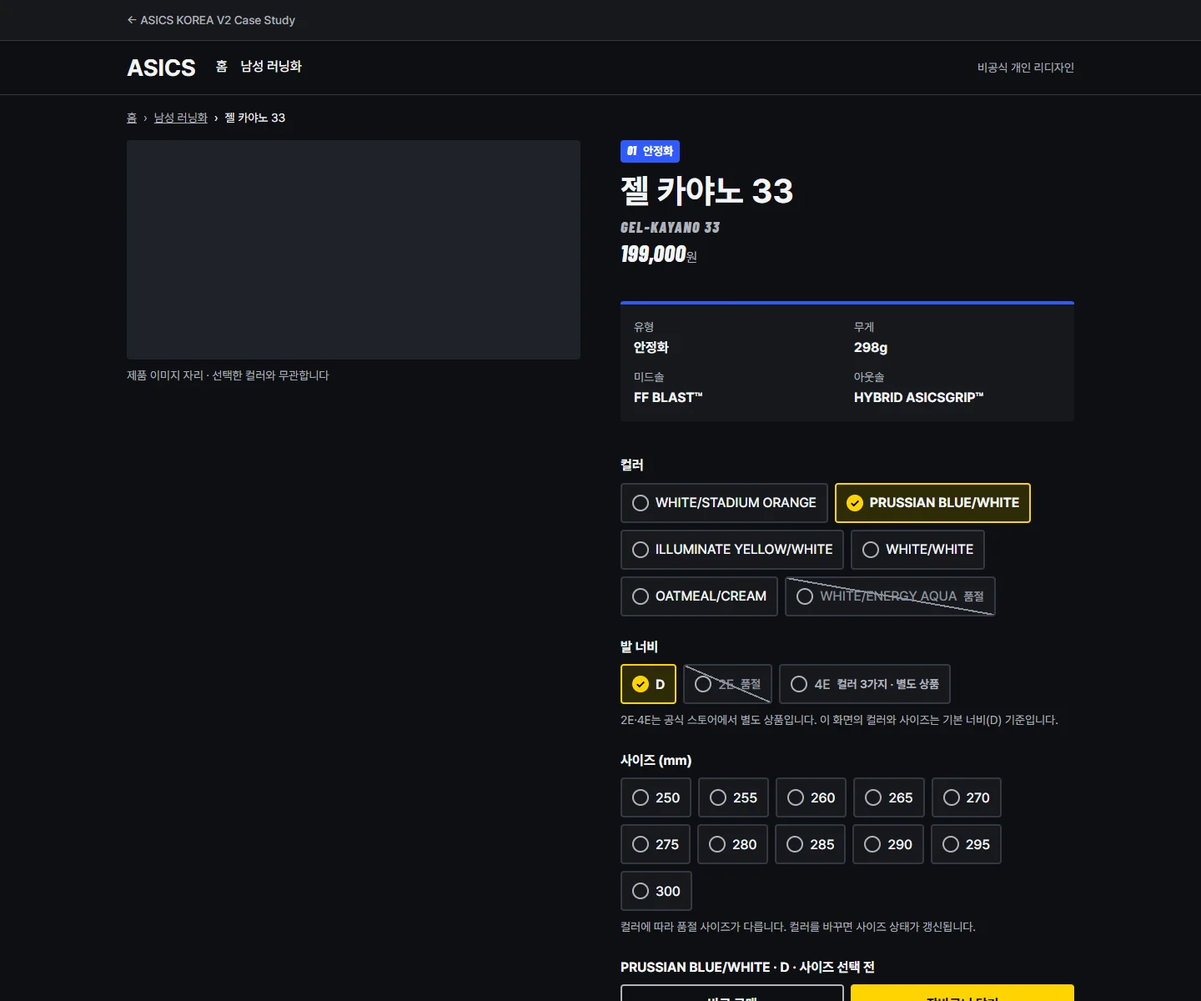
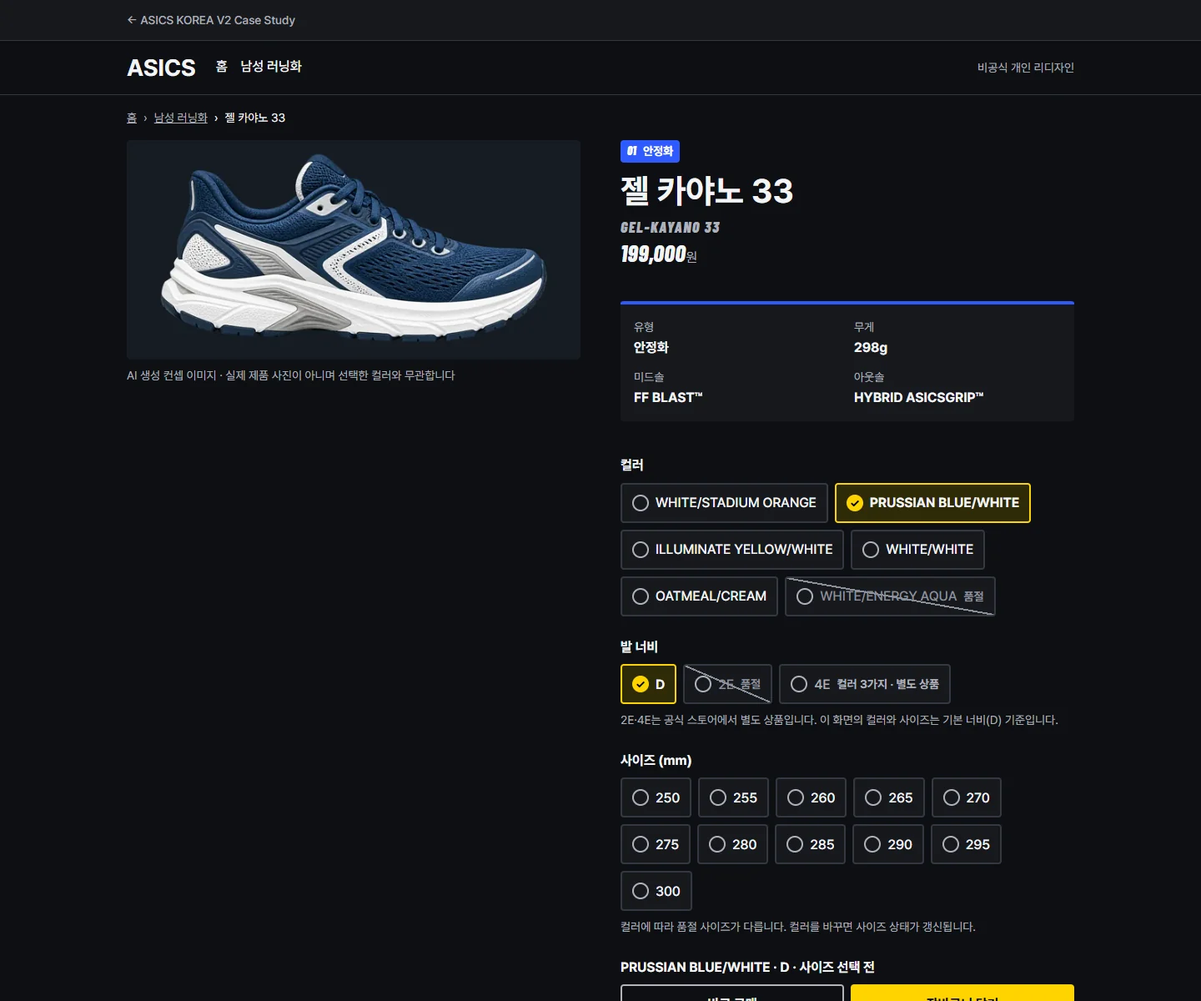
feat: show AI concept product images in ASICS V2 demo
- 22 product image slots use the user-made AI concept shoes (400/600/800/1200w)
- case study wording and V2 comparison captures updated to the final demo
- rights record for the product images (user-approved public portfolio use)

Changed region(s): [[0.125, 0.1542, 0.4688, 0.3392], [0.0938, 0.37, 0.375, 0.4008]]

diff --git a/docs/asics-korea-v2.html b/docs/asics-korea-v2.html
@@ -43,7 +43,7 @@
           </div>
           <h1 class="ak-heading" id="overview-title">ASICS KOREA 남성 러닝화 구매 경험 리디자인 — V2</h1>
           <p class="akv-statement">아식스 코리아 공식 스토어의 남성 러닝화 구매 흐름을 V1 Figma 6화면에서 V2 코드 시안 4 Page로 다시 정리한 비공식 개인 리디자인입니다.</p>
-          <p class="akv-notice">비공식 개인 리디자인이며 아식스와 무관합니다. V2 시연의 제품 이미지 칸은 자리 표시입니다. V1 화면의 제품 비주얼은 AI 생성 컨셉 이미지이며 실제 아식스 제품 사진이 아닙니다.</p>
+          <p class="akv-notice">비공식 개인 리디자인이며 아식스와 무관합니다. V1·V2 화면의 제품 이미지는 사용자가 만든 AI 생성 컨셉 이미지이며 실제 아식스 제품 사진이 아닙니다.</p>
           <p class="akv-links">
             <a class="akv-cta akv-cta--primary" href="asics-korea-v2-demo/index.html">V2 시연 사이트 열기 <span aria-hidden="true">→</span></a>
             <a class="akv-cta" href="asics-korea.html">V1 Case Study 보기 <span aria-hidden="true">→</span></a>
@@ -221,7 +221,7 @@
           <h2 class="akv-statement" id="solution-title">각 화면을 의도, 결정, 결과 순서로 V1과 비교합니다.</h2>
           <p class="ak-lead">아래 결정은 AI가 설계·구현했고, 사용자는 원칙 결정과 승인으로 관여했습니다. 각 비교는 왼쪽 V1(Figma 화면), 오른쪽 V2(시연 사이트 화면)이며, V2 화면은 시연 사이트에서 직접 열어 볼 수 있습니다.</p>
         </div>
-        <p class="akv-notice">비공식 개인 리디자인이며 아식스와 무관합니다. V2 시연의 제품 이미지 칸은 자리 표시입니다. V1 화면의 제품 비주얼은 AI 생성 컨셉 이미지이며 실제 아식스 제품 사진이 아닙니다.</p>
+        <p class="akv-notice">비공식 개인 리디자인이며 아식스와 무관합니다. V1·V2 화면의 제품 이미지는 사용자가 만든 AI 생성 컨셉 이미지이며 실제 아식스 제품 사진이 아닙니다.</p>
         <ol class="akv-solutions">
           <li class="akv-solution">
             <div class="akv-solution__head"><p class="akv-solution__num" aria-hidden="true">01</p><h3 class="akv-solution__title">홈</h3></div>
@@ -237,7 +237,7 @@
               </figure>
               <figure class="ak-figure akv-shot akv-shot--v2">
                 <figcaption class="akv-shot__label"><b class="akv-shot__ver">V2</b><span>얇은 유형 띠와 주 행동 하나</span></figcaption>
-                <a class="ak-zoom" id="fig-v2-home" href="#zoom-v2-home" title="크게 보기"><img src="assets/asics-v2-case-home.webp" alt="V2 시연 사이트 홈 화면. 얇은 유형 띠와 주 행동 하나. 제품 이미지 칸은 자리 표시" width="1440" height="900" loading="lazy"></a>
+                <a class="ak-zoom" id="fig-v2-home" href="#zoom-v2-home" title="크게 보기"><img src="assets/asics-v2-case-home.webp" alt="V2 시연 사이트 홈 화면. 얇은 유형 띠와 주 행동 하나. 제품 이미지는 AI 생성 컨셉 이미지" width="1440" height="900" loading="lazy"></a>
               </figure>
             </div>
             <a class="akv-demo-link" href="asics-korea-v2-demo/index.html">시연에서 열기 <span aria-hidden="true">→</span></a>
@@ -257,7 +257,7 @@
               </figure>
               <figure class="ak-figure akv-shot akv-shot--v2">
                 <figcaption class="akv-shot__label"><b class="akv-shot__ver">V2</b><span>노랑 = 선택 상태</span></figcaption>
-                <a class="ak-zoom" id="fig-v2-list" href="#zoom-v2-list" title="크게 보기"><img src="assets/asics-v2-case-list.webp" alt="V2 시연 사이트 남성 러닝화 목록 화면. 노랑은 선택 상태에만 쓰고 '71개 · 2026-10-01 공식 스토어 목록 기준'을 표기. 제품 이미지 칸은 자리 표시" width="1440" height="1100" loading="lazy"></a>
+                <a class="ak-zoom" id="fig-v2-list" href="#zoom-v2-list" title="크게 보기"><img src="assets/asics-v2-case-list.webp" alt="V2 시연 사이트 남성 러닝화 목록 화면. 노랑은 선택 상태에만 쓰고 '71개 · 2026-10-01 공식 스토어 목록 기준'을 표기. 제품 이미지는 AI 생성 컨셉 이미지" width="1440" height="1100" loading="lazy"></a>
               </figure>
             </div>
             <a class="akv-demo-link" href="asics-korea-v2-demo/list.html">시연에서 열기 <span aria-hidden="true">→</span></a>
@@ -277,7 +277,7 @@
               </figure>
               <figure class="ak-figure akv-shot akv-shot--v2">
                 <figcaption class="akv-shot__label"><b class="akv-shot__ver">V2</b><span>얇은 띠와 품절 옵션 1종</span></figcaption>
-                <a class="ak-zoom" id="fig-v2-detail" href="#zoom-v2-detail" title="크게 보기"><img src="assets/asics-v2-case-detail.webp" alt="V2 시연 사이트 젤 카야노 33 상세 화면. 얇은 사양 띠 아래 옵션, 품절은 선택 자리에서 품절 옵션 1종으로 표시. 제품 이미지 칸은 자리 표시" width="1440" height="1200" loading="lazy"></a>
+                <a class="ak-zoom" id="fig-v2-detail" href="#zoom-v2-detail" title="크게 보기"><img src="assets/asics-v2-case-detail.webp" alt="V2 시연 사이트 젤 카야노 33 상세 화면. 얇은 사양 띠 아래 옵션, 품절은 선택 자리에서 품절 옵션 1종으로 표시. 제품 이미지는 AI 생성 컨셉 이미지" width="1440" height="1200" loading="lazy"></a>
               </figure>
             </div>
             <a class="akv-demo-link" href="asics-korea-v2-demo/product.html">시연에서 열기 <span aria-hidden="true">→</span></a>
@@ -297,7 +297,7 @@
               </figure>
               <figure class="ak-figure akv-shot akv-shot--v2">
                 <figcaption class="akv-shot__label"><b class="akv-shot__ver">V2</b><span>"공식 자료 간 표기 상이" 각주</span></figcaption>
-                <a class="ak-zoom" id="fig-v2-compare" href="#zoom-v2-compare" title="크게 보기"><img src="assets/asics-v2-case-compare.webp" alt="V2 시연 사이트 비교 화면. 젤 카야노 33 · 님버스 28 · GT 2000 15를 같은 항목으로 비교하고, 가장 가벼운 값에 '추천 아님' 병기, 확인 못 한 칸은 '미확인', 출처가 다른 값은 '공식 자료 간 표기 상이' 각주. 제품 이미지 칸은 자리 표시" width="1440" height="1509" loading="lazy"></a>
+                <a class="ak-zoom" id="fig-v2-compare" href="#zoom-v2-compare" title="크게 보기"><img src="assets/asics-v2-case-compare.webp" alt="V2 시연 사이트 비교 화면. 젤 카야노 33 · 님버스 28 · GT 2000 15를 같은 항목으로 비교하고, 가장 가벼운 값에 '추천 아님' 병기, 확인 못 한 칸은 '미확인', 출처가 다른 값은 '공식 자료 간 표기 상이' 각주. 제품 이미지는 AI 생성 컨셉 이미지" width="1440" height="1501" loading="lazy"></a>
               </figure>
             </div>
             <a class="akv-demo-link" href="asics-korea-v2-demo/compare.html">시연에서 열기 <span aria-hidden="true">→</span></a>
@@ -317,7 +317,7 @@
               </figure>
               <figure class="ak-figure akv-shot akv-shot--v2 akv-shot--phone">
                 <figcaption class="akv-shot__label"><b class="akv-shot__ver">V2</b><span>컬러 무관 고지, 고정 구매 바(첫 화면)</span></figcaption>
-                <a class="ak-zoom" id="fig-v2-mobile" href="#zoom-v2-mobile" title="크게 보기"><img src="assets/asics-v2-case-mobile-detail.webp" alt="V2 시연 사이트 모바일 상세 첫 화면(390px 폭). 이미지가 선택한 컬러와 무관하다는 고지와 고정 구매 바. 제품 이미지 칸은 자리 표시" width="390" height="844" loading="lazy"></a>
+                <a class="ak-zoom" id="fig-v2-mobile" href="#zoom-v2-mobile" title="크게 보기"><img src="assets/asics-v2-case-mobile-detail.webp" alt="V2 시연 사이트 모바일 상세 첫 화면(390px 폭). 이미지가 선택한 컬러와 무관하다는 고지와 고정 구매 바. 제품 이미지는 AI 생성 컨셉 이미지" width="390" height="844" loading="lazy"></a>
               </figure>
             </div>
             <a class="akv-demo-link" href="asics-korea-v2-demo/product.html">시연에서 열기 <span aria-hidden="true">→</span><span class="akv-demo-link__note">(390px 폭)</span></a>
@@ -338,7 +338,7 @@
             <ul class="ak-points">
               <li><p class="ak-text">코드 시안 4 Page × 4 폭(1920·1440·768·390) 측정 문제 0</p></li>
               <li><p class="ak-text">첫 QA에서 비교 390 가로 넘침 524px 발견 → 수정 → 재검증 통과</p></li>
-              <li><p class="ak-text">로컬에서 제품 이미지를 넣은 상태도 측정 0, 이미지-모델 매칭 일치(공개 시연은 이미지 칸을 자리 표시로 둠)</p></li>
+              <li><p class="ak-text">제품 이미지(AI 생성 컨셉 이미지 10종)를 넣은 시연도 측정 0, 이미지-모델 매칭 일치</p></li>
               <li><p class="ak-text">Figma V2: 화면 8개를 변수·텍스트 스타일·컴포넌트로 구성(편집 가능 레이어), 웹 캡처와 대조 QA</p></li>
             </ul>
           </div>
@@ -418,7 +418,7 @@
   </div>
   <div class="ak-lightbox" id="zoom-v2-compare" role="dialog" aria-label="원본 크기 이미지">
     <p class="ak-lightbox__bar"><span>원본 크기 · 옆과 아래로 밀어서 보기</span><a class="ak-lightbox__close" href="#fig-v2-compare">닫기 ✕</a></p>
-    <div class="ak-lightbox__body"><img src="assets/asics-v2-case-compare.webp" alt="" width="1440" height="1509" loading="lazy"></div>
+    <div class="ak-lightbox__body"><img src="assets/asics-v2-case-compare.webp" alt="" width="1440" height="1501" loading="lazy"></div>
   </div>
   <div class="ak-lightbox" id="zoom-v1-mobile" role="dialog" aria-label="원본 크기 이미지">
     <p class="ak-lightbox__bar"><span>원본 크기 · 옆과 아래로 밀어서 보기</span><a class="ak-lightbox__close" href="#fig-v1-mobile">닫기 ✕</a></p>

diff --git a/docs/asics-korea-v2-demo/index.html b/docs/asics-korea-v2-demo/index.html
@@ -60,12 +60,12 @@
         <div class="type__body">
           <ul class="type__cards">
             <li class="card">
-              <div class="media" aria-hidden="true"></div>
+              <div class="media"><img class="media__img" src="assets/products/gel-kayano-33-600.webp" srcset="assets/products/gel-kayano-33-400.webp 400w, assets/products/gel-kayano-33-600.webp 600w, assets/products/gel-kayano-33-800.webp 800w, assets/products/gel-kayano-33-1200.webp 1200w" sizes="(min-width: 1024px) 400px, (min-width: 600px) 50vw, 100vw" width="600" height="262" alt="" decoding="async"></div>
               <h3 class="card__name"><a class="card__link" href="product.html">젤 카야노 33</a></h3>
               <p class="card__price"><span class="card__price-num">199,000</span>원</p>
             </li>
             <li class="card">
-              <div class="media" aria-hidden="true"></div>
+              <div class="media"><img class="media__img" src="assets/products/gt-2000-15-600.webp" srcset="assets/products/gt-2000-15-400.webp 400w, assets/products/gt-2000-15-600.webp 600w, assets/products/gt-2000-15-800.webp 800w, assets/products/gt-2000-15-1200.webp 1200w" sizes="(min-width: 1024px) 400px, (min-width: 600px) 50vw, 100vw" width="600" height="288" alt="" loading="lazy" decoding="async"></div>
               <h3 class="card__name">GT 2000 15</h3>
               <p class="card__price"><span class="card__price-num">159,000</span>원</p>
             </li>
@@ -86,12 +86,12 @@
         <div class="type__body">
           <ul class="type__cards">
             <li class="card">
-              <div class="media" aria-hidden="true"></div>
+              <div class="media"><img class="media__img" src="assets/products/gel-nimbus-28-600.webp" srcset="assets/products/gel-nimbus-28-400.webp 400w, assets/products/gel-nimbus-28-600.webp 600w, assets/products/gel-nimbus-28-800.webp 800w, assets/products/gel-nimbus-28-1200.webp 1200w" sizes="(min-width: 1024px) 400px, (min-width: 600px) 50vw, 100vw" width="600" height="273" alt="" loading="lazy" decoding="async"></div>
               <h3 class="card__name">젤 님버스 28</h3>
               <p class="card__price"><span class="card__price-num">199,000</span>원</p>
             </li>
             <li class="card">
-              <div class="media" aria-hidden="true"></div>
+              <div class="media"><img class="media__img" src="assets/products/glideride-max-2-600.webp" srcset="assets/products/glideride-max-2-400.webp 400w, assets/products/glideride-max-2-600.webp 600w, assets/products/glideride-max-2-800.webp 800w, assets/products/glideride-max-2-1200.webp 1200w" sizes="(min-width: 1024px) 400px, (min-width: 600px) 50vw, 100vw" width="600" height="266" alt="" loading="lazy" decoding="async"></div>
               <h3 class="card__name">글라이드라이드 맥스 2</h3>
               <p class="card__price"><span class="card__price-num">199,000</span>원</p>
             </li>
@@ -112,12 +112,12 @@
         <div class="type__body">
           <ul class="type__cards">
             <li class="card">
-              <div class="media" aria-hidden="true"></div>
+              <div class="media"><img class="media__img" src="assets/products/sonicblast-2-600.webp" srcset="assets/products/sonicblast-2-400.webp 400w, assets/products/sonicblast-2-600.webp 600w, assets/products/sonicblast-2-800.webp 800w, assets/products/sonicblast-2-1200.webp 1200w" sizes="(min-width: 1024px) 400px, (min-width: 600px) 50vw, 100vw" width="600" height="276" alt="" loading="lazy" decoding="async"></div>
               <h3 class="card__name">소닉블라스트 2</h3>
               <p class="card__price"><span class="card__price-num">229,000</span>원</p>
             </li>
             <li class="card">
-              <div class="media" aria-hidden="true"></div>
+              <div class="media"><img class="media__img" src="assets/products/novablast-6-600.webp" srcset="assets/products/novablast-6-400.webp 400w, assets/products/novablast-6-600.webp 600w, assets/products/novablast-6-800.webp 800w, assets/products/novablast-6-1200.webp 1200w" sizes="(min-width: 1024px) 400px, (min-width: 600px) 50vw, 100vw" width="600" height="274" alt="" loading="lazy" decoding="async"></div>
               <h3 class="card__name">노바블라스트 6</h3>
               <p class="card__price"><span class="card__price-num">179,000</span>원</p>
               <p class="card__status">전 컬러 품절</p>
@@ -139,12 +139,12 @@
         <div class="type__body">
           <ul class="type__cards">
             <li class="card">
-              <div class="media" aria-hidden="true"></div>
+              <div class="media"><img class="media__img" src="assets/products/metaspeed-sky-tokyo-600.webp" srcset="assets/products/metaspeed-sky-tokyo-400.webp 400w, assets/products/metaspeed-sky-tokyo-600.webp 600w, assets/products/metaspeed-sky-tokyo-800.webp 800w, assets/products/metaspeed-sky-tokyo-1200.webp 1200w" sizes="(min-width: 1024px) 400px, (min-width: 600px) 50vw, 100vw" width="600" height="276" alt="" loading="lazy" decoding="async"></div>
               <h3 class="card__name">메타스피드 스카이 도쿄</h3>
               <p class="card__price"><span class="card__price-num">329,000</span>원</p>
             </li>
             <li class="card">
-              <div class="media" aria-hidden="true"></div>
+              <div class="media"><img class="media__img" src="assets/products/magic-speed-5-600.webp" srcset="assets/products/magic-speed-5-400.webp 400w, assets/products/magic-speed-5-600.webp 600w, assets/products/magic-speed-5-800.webp 800w, assets/products/magic-speed-5-1200.webp 1200w" sizes="(min-width: 1024px) 400px, (min-width: 600px) 50vw, 100vw" width="600" height="274" alt="" loading="lazy" decoding="async"></div>
               <h3 class="card__name">매직 스피드 5</h3>
               <p class="card__price"><span class="card__price-num">209,000</span>원</p>
             </li>
@@ -165,12 +165,12 @@
         <div class="type__body">
           <ul class="type__cards">
             <li class="card">
-              <div class="media" aria-hidden="true"></div>
+              <div class="media"><img class="media__img" src="assets/products/blazeblast-600.webp" srcset="assets/products/blazeblast-400.webp 400w, assets/products/blazeblast-600.webp 600w, assets/products/blazeblast-800.webp 800w, assets/products/blazeblast-1200.webp 1200w" sizes="(min-width: 1024px) 400px, (min-width: 600px) 50vw, 100vw" width="600" height="260" alt="" loading="lazy" decoding="async"></div>
               <h3 class="card__name">블레이즈블라스트</h3>
               <p class="card__price"><span class="card__price-num">179,000</span>원</p>
             </li>
             <li class="card">
-              <div class="media" aria-hidden="true"></div>
+              <div class="media"><img class="media__img" src="assets/products/metafuji-trail-600.webp" srcset="assets/products/metafuji-trail-400.webp 400w, assets/products/metafuji-trail-600.webp 600w, assets/products/metafuji-trail-800.webp 800w, assets/products/metafuji-trail-1200.webp 1200w" sizes="(min-width: 1024px) 400px, (min-width: 600px) 50vw, 100vw" width="600" height="260" alt="" loading="lazy" decoding="async"></div>
               <h3 class="card__name">메타후지 트레일</h3>
               <p class="card__price"><span class="card__price-num">279,000</span>원</p>
             </li>
@@ -186,7 +186,7 @@
       <ul class="site-footer__list">
         <li>가격·상품 정보: 공식 스토어 비로그인 조사, 2026-10-01</li>
         <li>비공식 개인 리디자인이며 아식스와 무관합니다.</li>
-        <li>제품 이미지는 자리 표시입니다(실제 제품 사진을 쓰지 않습니다).</li>
+        <li>제품 이미지는 사용자가 제작한 AI 생성 컨셉 이미지이며 실제 아식스 제품 사진이 아닙니다.</li>
       </ul>
     </div>
   </footer>

diff --git a/docs/asics-korea-v2-demo/list.html b/docs/asics-korea-v2-demo/list.html
@@ -92,7 +92,7 @@
           <ul class="list-cards">
             <li class="card type--01" data-type="01">
               <span class="type-tag"><span class="num" aria-hidden="true">01</span>안정화</span>
-              <div class="media" aria-hidden="true"></div>
+              <div class="media"><img class="media__img" src="assets/products/gel-kayano-33-600.webp" srcset="assets/products/gel-kayano-33-400.webp 400w, assets/products/gel-kayano-33-600.webp 600w, assets/products/gel-kayano-33-800.webp 800w, assets/products/gel-kayano-33-1200.webp 1200w" sizes="(min-width: 1024px) 400px, (min-width: 600px) 50vw, 100vw" width="600" height="262" alt="" decoding="async"></div>
               <h3 class="card__name"><a class="card__link" href="product.html">젤 카야노 33</a></h3>
               <p class="card__price"><span class="card__price-num">199,000</span>원</p>
               <p class="card__meta">무게 298g · 컬러 6개</p>
@@ -107,7 +107,7 @@
 
             <li class="card type--01" data-type="01">
               <span class="type-tag"><span class="num" aria-hidden="true">01</span>안정화</span>
-              <div class="media" aria-hidden="true"></div>
+              <div class="media"><img class="media__img" src="assets/products/gt-2000-15-600.webp" srcset="assets/products/gt-2000-15-400.webp 400w, assets/products/gt-2000-15-600.webp 600w, assets/products/gt-2000-15-800.webp 800w, assets/products/gt-2000-15-1200.webp 1200w" sizes="(min-width: 1024px) 400px, (min-width: 600px) 50vw, 100vw" width="600" height="288" alt="" loading="lazy" decoding="async"></div>
               <h3 class="card__name">GT 2000 15</h3>
               <p class="card__price"><span class="card__price-num">159,000</span>원</p>
               <p class="card__meta">무게 252g · 컬러 3개</p>
@@ -122,7 +122,7 @@
 
             <li class="card type--02" data-type="02">
               <span class="type-tag"><span class="num" aria-hidden="true">02</span>쿠션화</span>
-              <div class="media" aria-hidden="true"></div>
+              <div class="media"><img class="media__img" src="assets/products/gel-nimbus-28-600.webp" srcset="assets/products/gel-nimbus-28-400.webp 400w, assets/products/gel-nimbus-28-600.webp 600w, assets/products/gel-nimbus-28-800.webp 800w, assets/products/gel-nimbus-28-1200.webp 1200w" sizes="(min-width: 1024px) 400px, (min-width: 600px) 50vw, 100vw" width="600" height="273" alt="" loading="lazy" decoding="async"></div>
               <h3 class="card__name">젤 님버스 28</h3>
               <p class="card__price"><span class="card__price-num">199,000</span>원</p>
               <p class="card__meta">무게 281g · 컬러 3개</p>
@@ -137,7 +137,7 @@
 
             <li class="card type--02" data-type="02">
               <span class="type-tag"><span class="num" aria-hidden="true">02</span>쿠션화</span>
-              <div class="media" aria-hidden="true"></div>
+              <div class="media"><img class="media__img" src="assets/products/glideride-max-2-600.webp" srcset="assets/products/glideride-max-2-400.webp 400w, assets/products/glideride-max-2-600.webp 600w, assets/products/glideride-max-2-800.webp 800w, assets/products/glideride-max-2-1200.webp 1200w" sizes="(min-width: 1024px) 400px, (min-width: 600px) 50vw, 100vw" width="600" height="266" alt="" loading="lazy" decoding="async"></div>
               <h3 class="card__name">글라이드라이드 맥스 2</h3>
               <p class="card__price"><span class="card__price-num">199,000</span>원</p>
               <div class="card__actions">
@@ -151,7 +151,7 @@
 
             <li class="card type--03" data-type="03">
               <span class="type-tag"><span class="num" aria-hidden="true">03</span>바운싱화</span>
-              <div class="media" aria-hidden="true"></div>
+              <div class="media"><img class="media__img" src="assets/products/sonicblast-2-600.webp" srcset="assets/products/sonicblast-2-400.webp 400w, assets/products/sonicblast-2-600.webp 600w, assets/products/sonicblast-2-800.webp 800w, assets/products/sonicblast-2-1200.webp 1200w" sizes="(min-width: 1024px) 400px, (min-width: 600px) 50vw, 100vw" width="600" height="276" alt="" loading="lazy" decoding="async"></div>
               <h3 class="card__name">소닉블라스트 2</h3>
               <p class="card__price"><span class="card__price-num">229,000</span>원</p>
               <div class="card__actions">
@@ -165,7 +165,7 @@
 
             <li class="card type--03" data-type="03">
               <span class="type-tag"><span class="num" aria-hidden="true">03</span>바운싱화</span>
-              <div class="media" aria-hidden="true"></div>
+              <div class="media"><img class="media__img" src="assets/products/novablast-6-600.webp" srcset="assets/products/novablast-6-400.webp 400w, assets/products/novablast-6-600.webp 600w, assets/products/novablast-6-800.webp 800w, assets/products/novablast-6-1200.webp 1200w" sizes="(min-width: 1024px) 400px, (min-width: 600px) 50vw, 100vw" width="600" height="274" alt="" loading="lazy" decoding="async"></div>
               <h3 class="card__name">노바블라스트 6</h3>
               <p class="card__price"><span class="card__price-num">179,000</span>원</p>
               <p class="card__meta">무게 253g · 컬러 10개</p>
@@ -181,7 +181,7 @@
 
             <li class="card type--04" data-type="04">
               <span class="type-tag"><span class="num" aria-hidden="true">04</span>레이싱화</span>
-              <div class="media" aria-hidden="true"></div>
+              <div class="media"><img class="media__img" src="assets/products/metaspeed-sky-tokyo-600.webp" srcset="assets/products/metaspeed-sky-tokyo-400.webp 400w, assets/products/metaspeed-sky-tokyo-600.webp 600w, assets/products/metaspeed-sky-tokyo-800.webp 800w, assets/products/metaspeed-sky-tokyo-1200.webp 1200w" sizes="(min-width: 1024px) 400px, (min-width: 600px) 50vw, 100vw" width="600" height="276" alt="" loading="lazy" decoding="async"></div>
               <h3 class="card__name">메타스피드 스카이 도쿄</h3>
               <p class="card__price"><span class="card__price-num">329,000</span>원</p>
               <p class="card__meta">무게 170g · 컬러 3개</p>
@@ -196,7 +196,7 @@
 
             <li class="card type--04" data-type="04">
               <span class="type-tag"><span class="num" aria-hidden="true">04</span>레이싱화</span>
-              <div class="media" aria-hidden="true"></div>
+              <div class="media"><img class="media__img" src="assets/products/magic-speed-5-600.webp" srcset="assets/products/magic-speed-5-400.webp 400w, assets/products/magic-speed-5-600.webp 600w, assets/products/magic-speed-5-800.webp 800w, assets/products/magic-speed-5-1200.webp 1200w" sizes="(min-width: 1024px) 400px, (min-width: 600px) 50vw, 100vw" width="600" height="274" alt="" loading="lazy" decoding="async"></div>
               <h3 class="card__name">매직 스피드 5</h3>
               <p class="card__price"><span class="card__price-num">209,000</span>원</p>
               <div class="card__actions">
@@ -231,7 +231,7 @@
       <ul class="site-footer__list">
         <li>가격·상품 정보: 공식 스토어 비로그인 조사, 2026-10-01</li>
         <li>비공식 개인 리디자인이며 아식스와 무관합니다.</li>
-        <li>제품 이미지는 자리 표시입니다(실제 제품 사진을 쓰지 않습니다).</li>
+        <li>제품 이미지는 사용자가 제작한 AI 생성 컨셉 이미지이며 실제 아식스 제품 사진이 아닙니다.</li>
       </ul>
     </div>
   </footer>

diff --git a/docs/asics-korea-v2-demo/compare.html b/docs/asics-korea-v2-demo/compare.html
@@ -45,9 +45,9 @@
           <thead>
             <tr>
               <th scope="col" class="compare-table__corner"><span class="u-visually-hidden">항목</span></th>
-              <th scope="col"><div class="media" aria-hidden="true"></div>젤 카야노 33</th>
-              <th scope="col"><div class="media" aria-hidden="true"></div>젤 님버스 28</th>
-              <th scope="col"><div class="media" aria-hidden="true"></div>GT 2000 15</th>
+              <th scope="col"><div class="media"><img class="media__img" src="assets/products/gel-kayano-33-600.webp" srcset="assets/products/gel-kayano-33-400.webp 400w, assets/products/gel-kayano-33-600.webp 600w, assets/products/gel-kayano-33-800.webp 800w, assets/products/gel-kayano-33-1200.webp 1200w" sizes="(min-width: 1024px) 340px, 200px" width="600" height="262" alt="" decoding="async"></div>젤 카야노 33</th>
+              <th scope="col"><div class="media"><img class="media__img" src="assets/products/gel-nimbus-28-600.webp" srcset="assets/products/gel-nimbus-28-400.webp 400w, assets/products/gel-nimbus-28-600.webp 600w, assets/products/gel-nimbus-28-800.webp 800w, assets/products/gel-nimbus-28-1200.webp 1200w" sizes="(min-width: 1024px) 340px, 200px" width="600" height="273" alt="" decoding="async"></div>젤 님버스 28</th>
+              <th scope="col"><div class="media"><img class="media__img" src="assets/products/gt-2000-15-600.webp" srcset="assets/products/gt-2000-15-400.webp 400w, assets/products/gt-2000-15-600.webp 600w, assets/products/gt-2000-15-800.webp 800w, assets/products/gt-2000-15-1200.webp 1200w" sizes="(min-width: 1024px) 340px, 200px" width="600" height="288" alt="" decoding="async"></div>GT 2000 15</th>
             </tr>
           </thead>
           <tbody>
@@ -131,7 +131,7 @@
       <ul class="site-footer__list">
         <li>가격·상품 정보: 공식 스토어 비로그인 조사, 2026-10-01</li>
         <li>비공식 개인 리디자인이며 아식스와 무관합니다.</li>
-        <li>제품 이미지는 자리 표시입니다(실제 제품 사진을 쓰지 않습니다).</li>
+        <li>제품 이미지는 사용자가 제작한 AI 생성 컨셉 이미지이며 실제 아식스 제품 사진이 아닙니다.</li>
       </ul>
     </div>
   </footer>

diff --git a/docs/asics-korea-v2-demo/product.html b/docs/asics-korea-v2-demo/product.html
@@ -45,8 +45,8 @@
 
       <div class="product">
         <div class="product-gallery">
-          <div class="media" aria-hidden="true"></div>
-          <p class="product-gallery__caption">제품 이미지 자리 · 선택한 컬러와 무관합니다</p>
+          <div class="media"><img class="media__img" src="assets/products/gel-kayano-33-600.webp" srcset="assets/products/gel-kayano-33-400.webp 400w, assets/products/gel-kayano-33-600.webp 600w, assets/products/gel-kayano-33-800.webp 800w, assets/products/gel-kayano-33-1200.webp 1200w" sizes="(min-width: 1024px) 540px, (min-width: 600px) 600px, 100vw" width="600" height="262" alt="젤 카야노 33 AI 생성 컨셉 이미지" decoding="async"></div>
+          <p class="product-gallery__caption">AI 생성 컨셉 이미지 · 실제 제품 사진이 아니며 선택한 컬러와 무관합니다</p>
         </div>
 
         <form class="product-panel" data-product>
@@ -194,7 +194,7 @@
       <ul class="site-footer__list">
         <li>가격·상품 정보: 공식 스토어 비로그인 조사, 2026-10-01</li>
         <li>비공식 개인 리디자인이며 아식스와 무관합니다.</li>
-        <li>제품 이미지는 자리 표시입니다(실제 제품 사진을 쓰지 않습니다).</li>
+        <li>제품 이미지는 사용자가 제작한 AI 생성 컨셉 이미지이며 실제 아식스 제품 사진이 아닙니다.</li>
       </ul>
     </div>
   </footer>

diff --git a/docs/asics-korea-v2-demo/css/components.css b/docs/asics-korea-v2-demo/css/components.css
@@ -373,7 +373,7 @@ a {
 }
 
 /* ---------- 제품 이미지 칸 (모든 페이지 공통) ----------
-   현재는 빈 자리 표시(aria-hidden)다. 고정 비율로 자리를 잡아 이미지가 들어와도 레이아웃이 바뀌지 않는다.
+   AI 생성 컨셉 제품 이미지를 담는다. 고정 비율 + contain이라 이미지가 잘리거나 늘어나지 않는다.
    이미지 위에는 텍스트·캡션을 올리지 않는다. */
 .media {
   aspect-ratio: var(--media-ratio-product);
@@ -383,8 +383,7 @@ a {
   overflow: hidden;
 }
 
-/* 이미지가 아직 없는 자리 표시: 한 단계 밝은 면으로 칸이 있음을 보여 준다.
-   이미지를 넣으면 :empty가 아니게 되어 위의 배경으로 돌아간다. */
+/* 이미지가 빠진 칸(대비책): 한 단계 밝은 면으로 칸이 있음을 보여 준다. 이미지가 있으면 적용되지 않는다. */
 .media:empty {
   background: var(--color-surface-raised);
 }

diff --git a/docs/asics-korea-v2-demo/css/compare.css b/docs/asics-korea-v2-demo/css/compare.css
@@ -54,7 +54,7 @@
   max-width: var(--size-media-max);
 }
 
-/* 자리 표시가 표 머리 배경(surface-raised)에 묻히지 않게 이미지 칸 본래 배경을 쓴다 */
+/* 이미지가 빠진 칸(대비책)이 표 머리 배경(surface-raised)에 묻히지 않게 이미지 칸 본래 배경을 쓴다 */
 .compare-table thead .media:empty {
   background: var(--color-media-bg);
 }

diff --git a/docs/asics-korea-v2-demo/css/tokens.css b/docs/asics-korea-v2-demo/css/tokens.css
@@ -49,7 +49,7 @@
   --color-white: #ffffff;
   --color-focus: #ffffff;
 
-  /* 색 - 제품 이미지 칸 (현재는 빈 자리 표시) */
+  /* 색 - 제품 이미지 칸 (이미지 자체 배경과 같아 경계가 보이지 않는다) */
   --color-media-bg: #161b22;
 
   /* 색 - 선택 상태와 주 CTA 전용 (노랑) */
